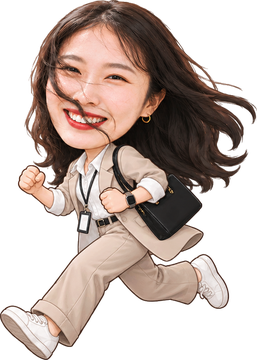
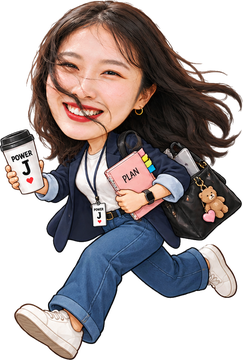
파워J 복장을 새 원본으로 재추출 (POWER J 커피·PLAN 다이어리) (v1.1.68)

diff --git a/index.html b/index.html
@@ -568,7 +568,7 @@
   const elFinal = document.getElementById("finalScore");
   const elTitle = document.getElementById("overTitle");
 
-  const GAME_VERSION = "v1.1.67";   // 코드를 고칠 때마다 뒤 두 자리를 올린다
+  const GAME_VERSION = "v1.1.68";   // 코드를 고칠 때마다 뒤 두 자리를 올린다
   document.getElementById("ver").textContent = GAME_VERSION;
 
   const LS_NAME = "epjpddongpi_name";
@@ -688,9 +688,9 @@
     hurt:  { img: null, aspect: 0.531, head: 0.445, cx: 0.492, cy: 0.314, adj: 0.7443 }
   };
   const SPR_PJ = {
-    left:  { img: null, aspect: 0.714, head: 0.497, cx: 0.482, cy: 0.336, adj: 0.7328 },
-    right: { img: null, aspect: 0.703, head: 0.464, cx: 0.549, cy: 0.292, adj: 0.6839 },
-    hurt:  { img: null, aspect: 0.592, head: 0.494, cx: 0.521, cy: 0.342, adj: 0.7929 }
+    left:  { img: null, aspect: 0.675, head: 0.452, cx: 0.535, cy: 0.378, adj: 0.6660 },
+    right: { img: null, aspect: 0.647, head: 0.406, cx: 0.485, cy: 0.289, adj: 0.5993 },
+    hurt:  { img: null, aspect: 0.506, head: 0.414, cx: 0.500, cy: 0.264, adj: 0.6641 }
   };
   const SPR_MONK = {
     // 백수와 같은 크기(1.0배)
